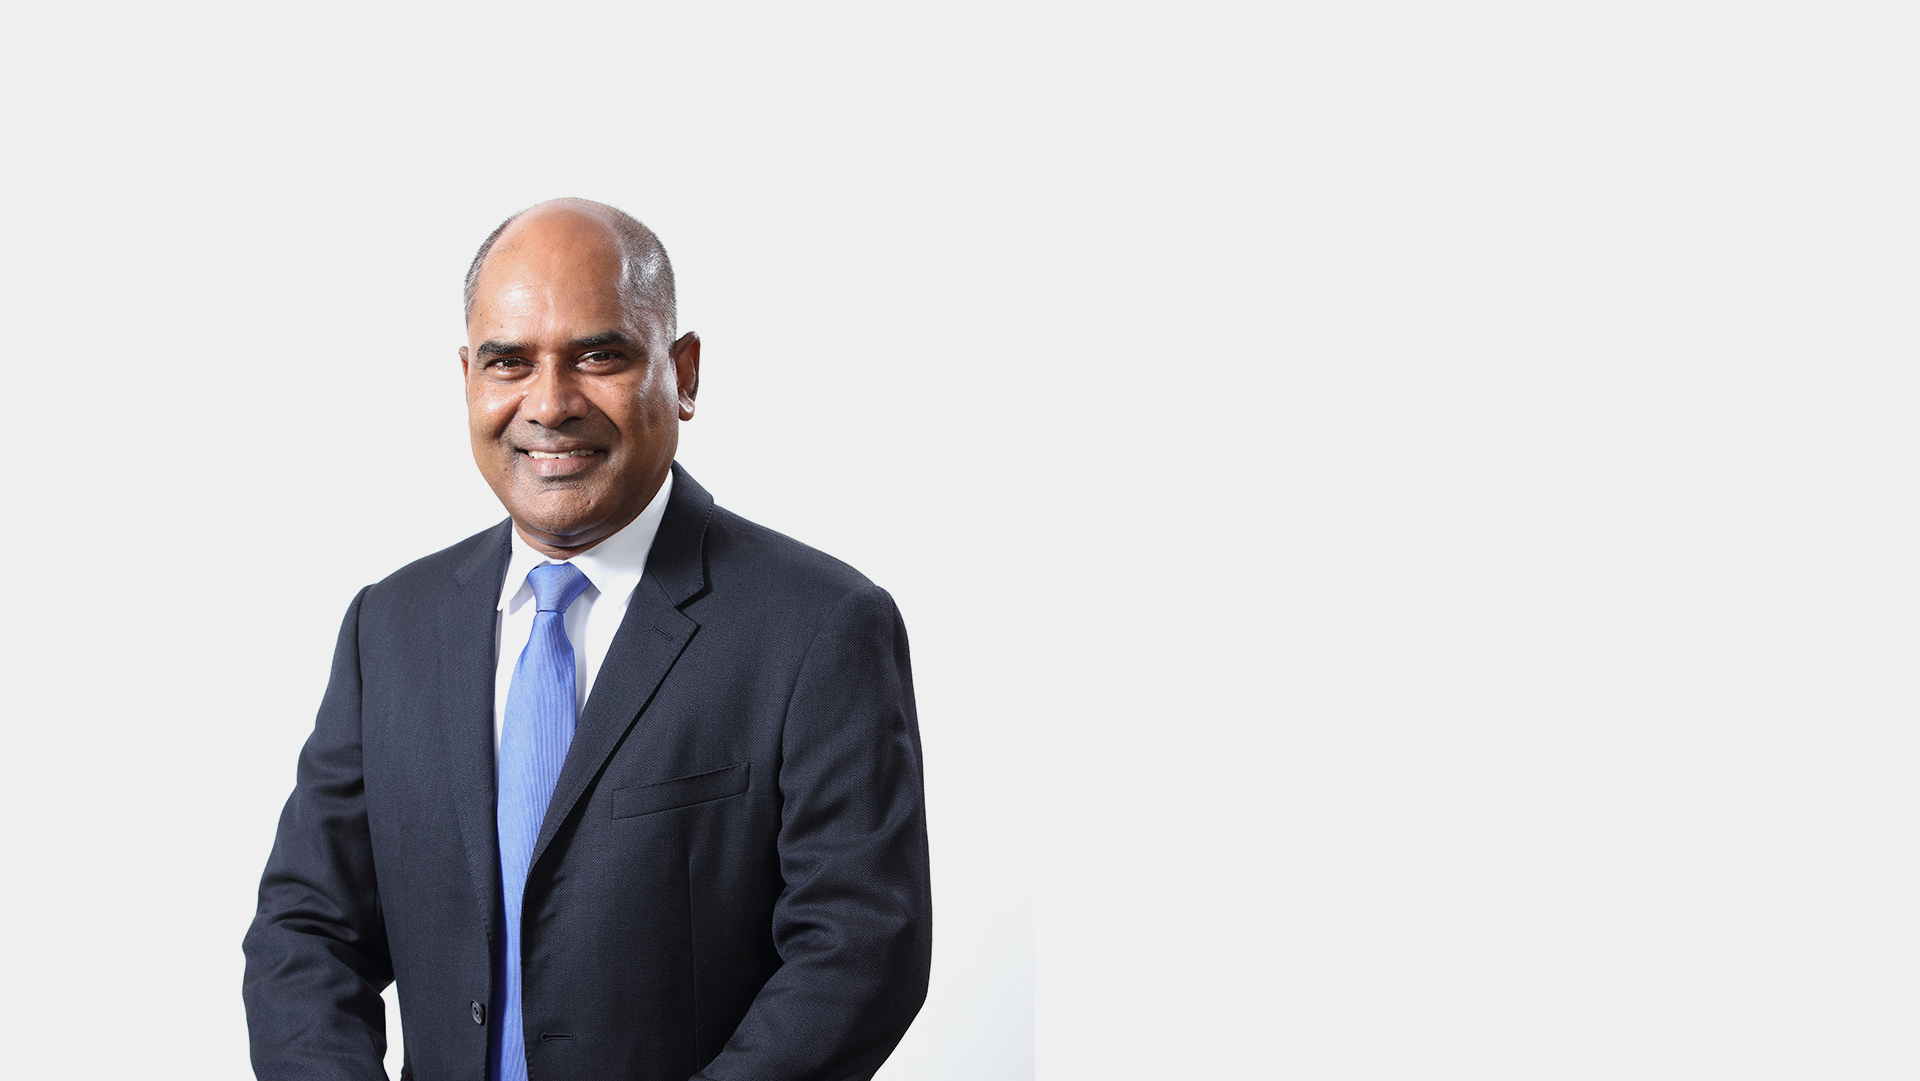
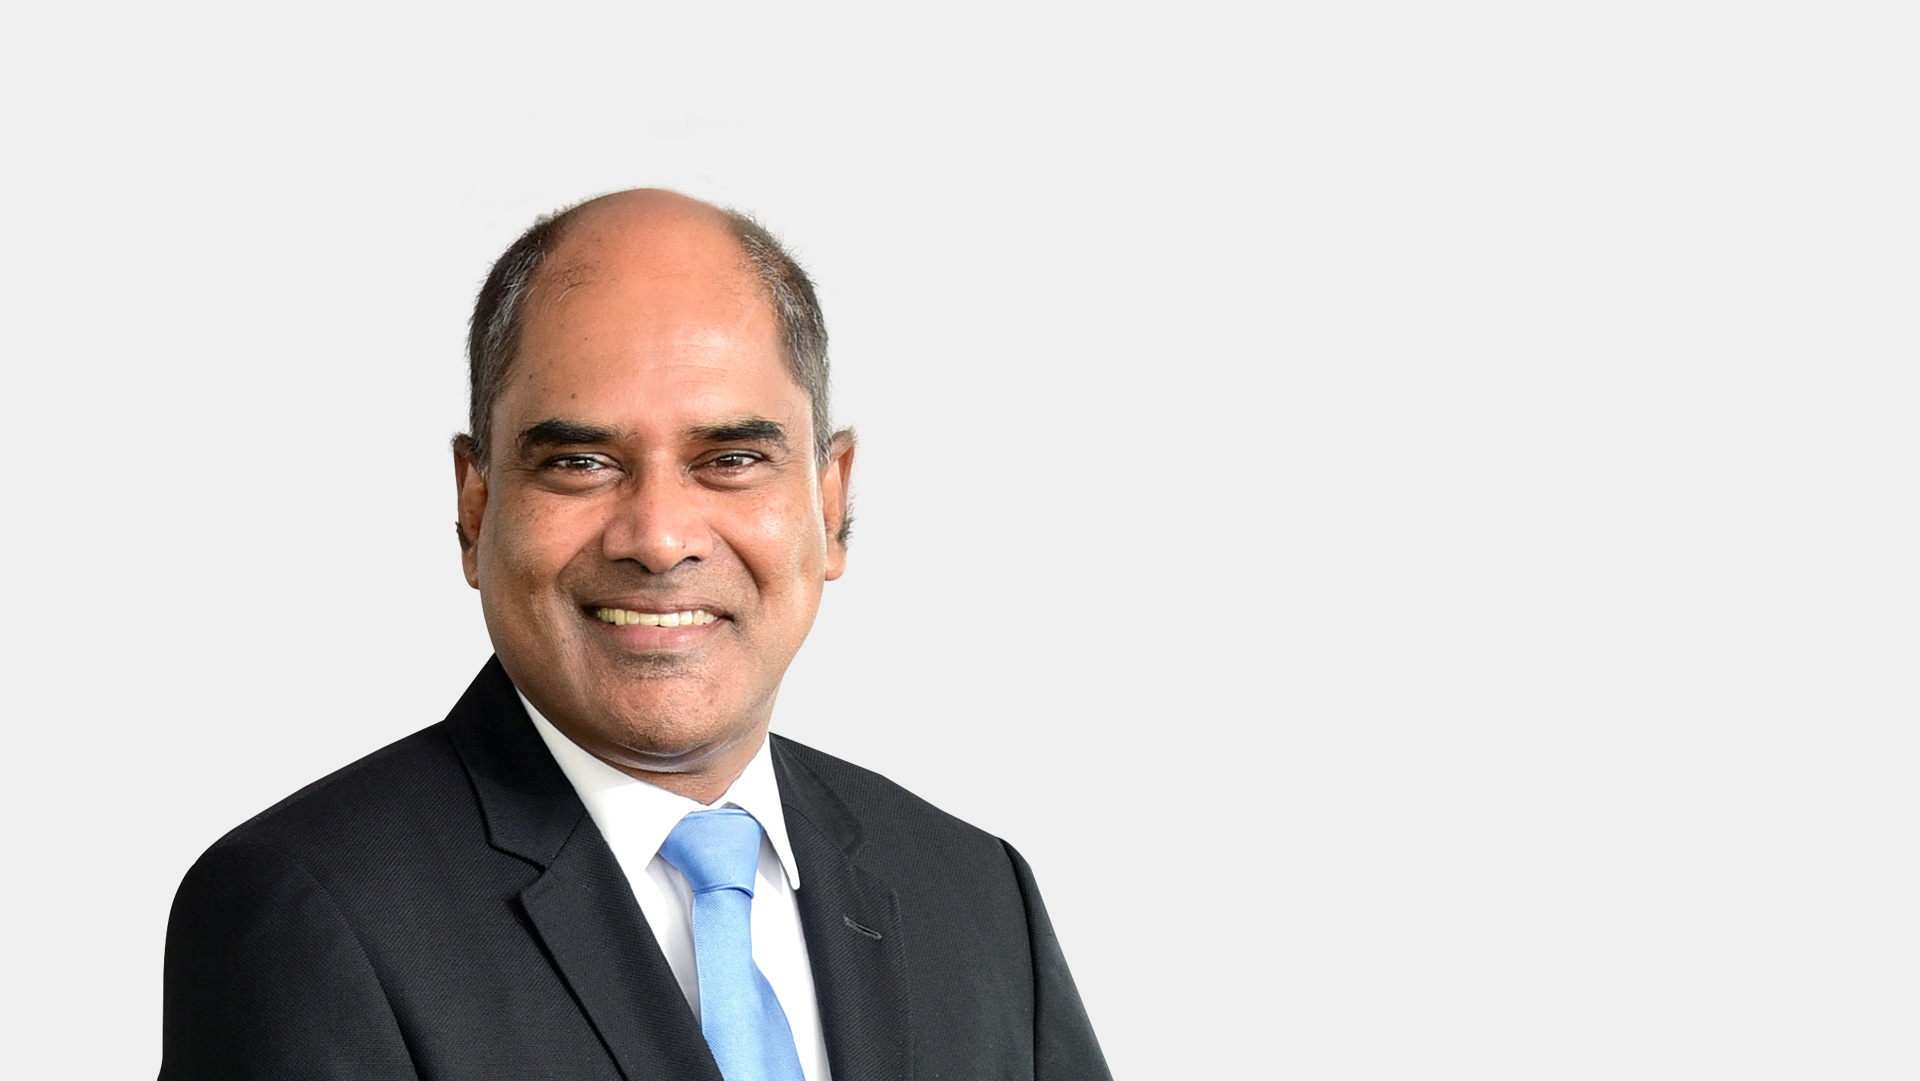
add

Changed region(s): [[0.0625, 0.1526, 0.5938, 1.0]]

diff --git a/chapters/chairmans_message.html b/chapters/chairmans_message.html
@@ -203,16 +203,18 @@ The Way We See It</div></a>
 
                             
                             
-                            <!-- Row --> 
-                            <div class="vc_row">
-
-                                                        
-                                <figure class="has-parallax has-animation has-scale-vertical" data-delay="100">
-                                    <img src="../images/chairman_home.jpg" alt="Image Title">
-                                </figure>
-                            
-                            </div>
-                            <!--/Row -->
+							
+							
+<section>
+	
+		  	                                <figure class="has-parallax has-animation animated" data-delay="100">
+                                    <img src="../images/chairman_inner.jpg" alt="Image Title">
+                                </figure>		
+	
+</section>   							
+							
+							
+							
 
                             
 							

diff --git a/css/style.css b/css/style.css
@@ -638,9 +638,9 @@ margin-bottom: 10px;
 
 .modstyle h5{
 font-family: 'Poppins', sans-serif;
-font-size: 17px;
+font-size: 18px;
 font-weight: 400;
-line-height: 22px;
+line-height: 23px;
 margin-bottom: 10px;
 text-align: center;
 width: 100%;
@@ -925,10 +925,37 @@ line-height: 22px;
 font-weight: 400;
 	}
 
+
+@media only screen and (max-width:1199px) {	
+	
+	.chm p
+	{color: #353535;
+font-size: 15px !important;
+line-height: 21px !important;
+font-weight: 400;}	
+	
+}
+
+
+
+
+@media only screen and (max-width: 991px) {	
+	
+	.chm p
+	{color: #353535;
+font-size: 15px !important;
+line-height: 21px !important;
+font-weight: 400;}	
+	
+}
+
+
+
+
 .oldstyle p{
     color: #353535;
 font-size: 17px;
-line-height: 24px;
+line-height: 26px;
 font-weight: 400;
     font-family: 'Libre Baskerville', serif;
     

diff --git a/css/portfolio.css b/css/portfolio.css
@@ -1097,9 +1097,9 @@ z-index: 10;
 position: absolute;
 bottom: 0px;
 height: auto;
-padding: 50px 20px 20px 110px;
+padding: 50px 20px 30px 110px;
 box-sizing: border-box;
-width: 60%;
+width: 55%;
 right: 0px;
 
 	}    
@@ -1146,15 +1146,33 @@ padding: 10px 0px;
         
 	.item-caption2 {
 z-index: 10;
-padding: 50px 20px 20px 110px;
-width: 60%;
+padding: 50px 20px 30px 110px;
+width: 57%;
 right: 0px;
+bottom: 20px;
 
 	}          
         
         
         
     }
+
+
+    @media only screen and (max-width: 767px) {
+			.item-caption2 {
+z-index: 10;
+padding: 50px 20px 30px 110px;
+width: 62%;
+right: 0px;
+bottom: 0px;
+
+	}     
+		
+}
+
+
+
+
 
 
     @media only screen and (max-width: 600px) {

diff --git a/index.html b/index.html
@@ -256,7 +256,7 @@ students of Gateway College</div>
                                     
                                     
                                     
-<div class="item photo tall disable-drag change-header change-header-color">
+<div class="item photo tall disable-drag change-header change-header-color chm">
                                     	<div class="item-parallax">
                                             <div class="item-appear">                                    	
                                               <div class="item-content">        
